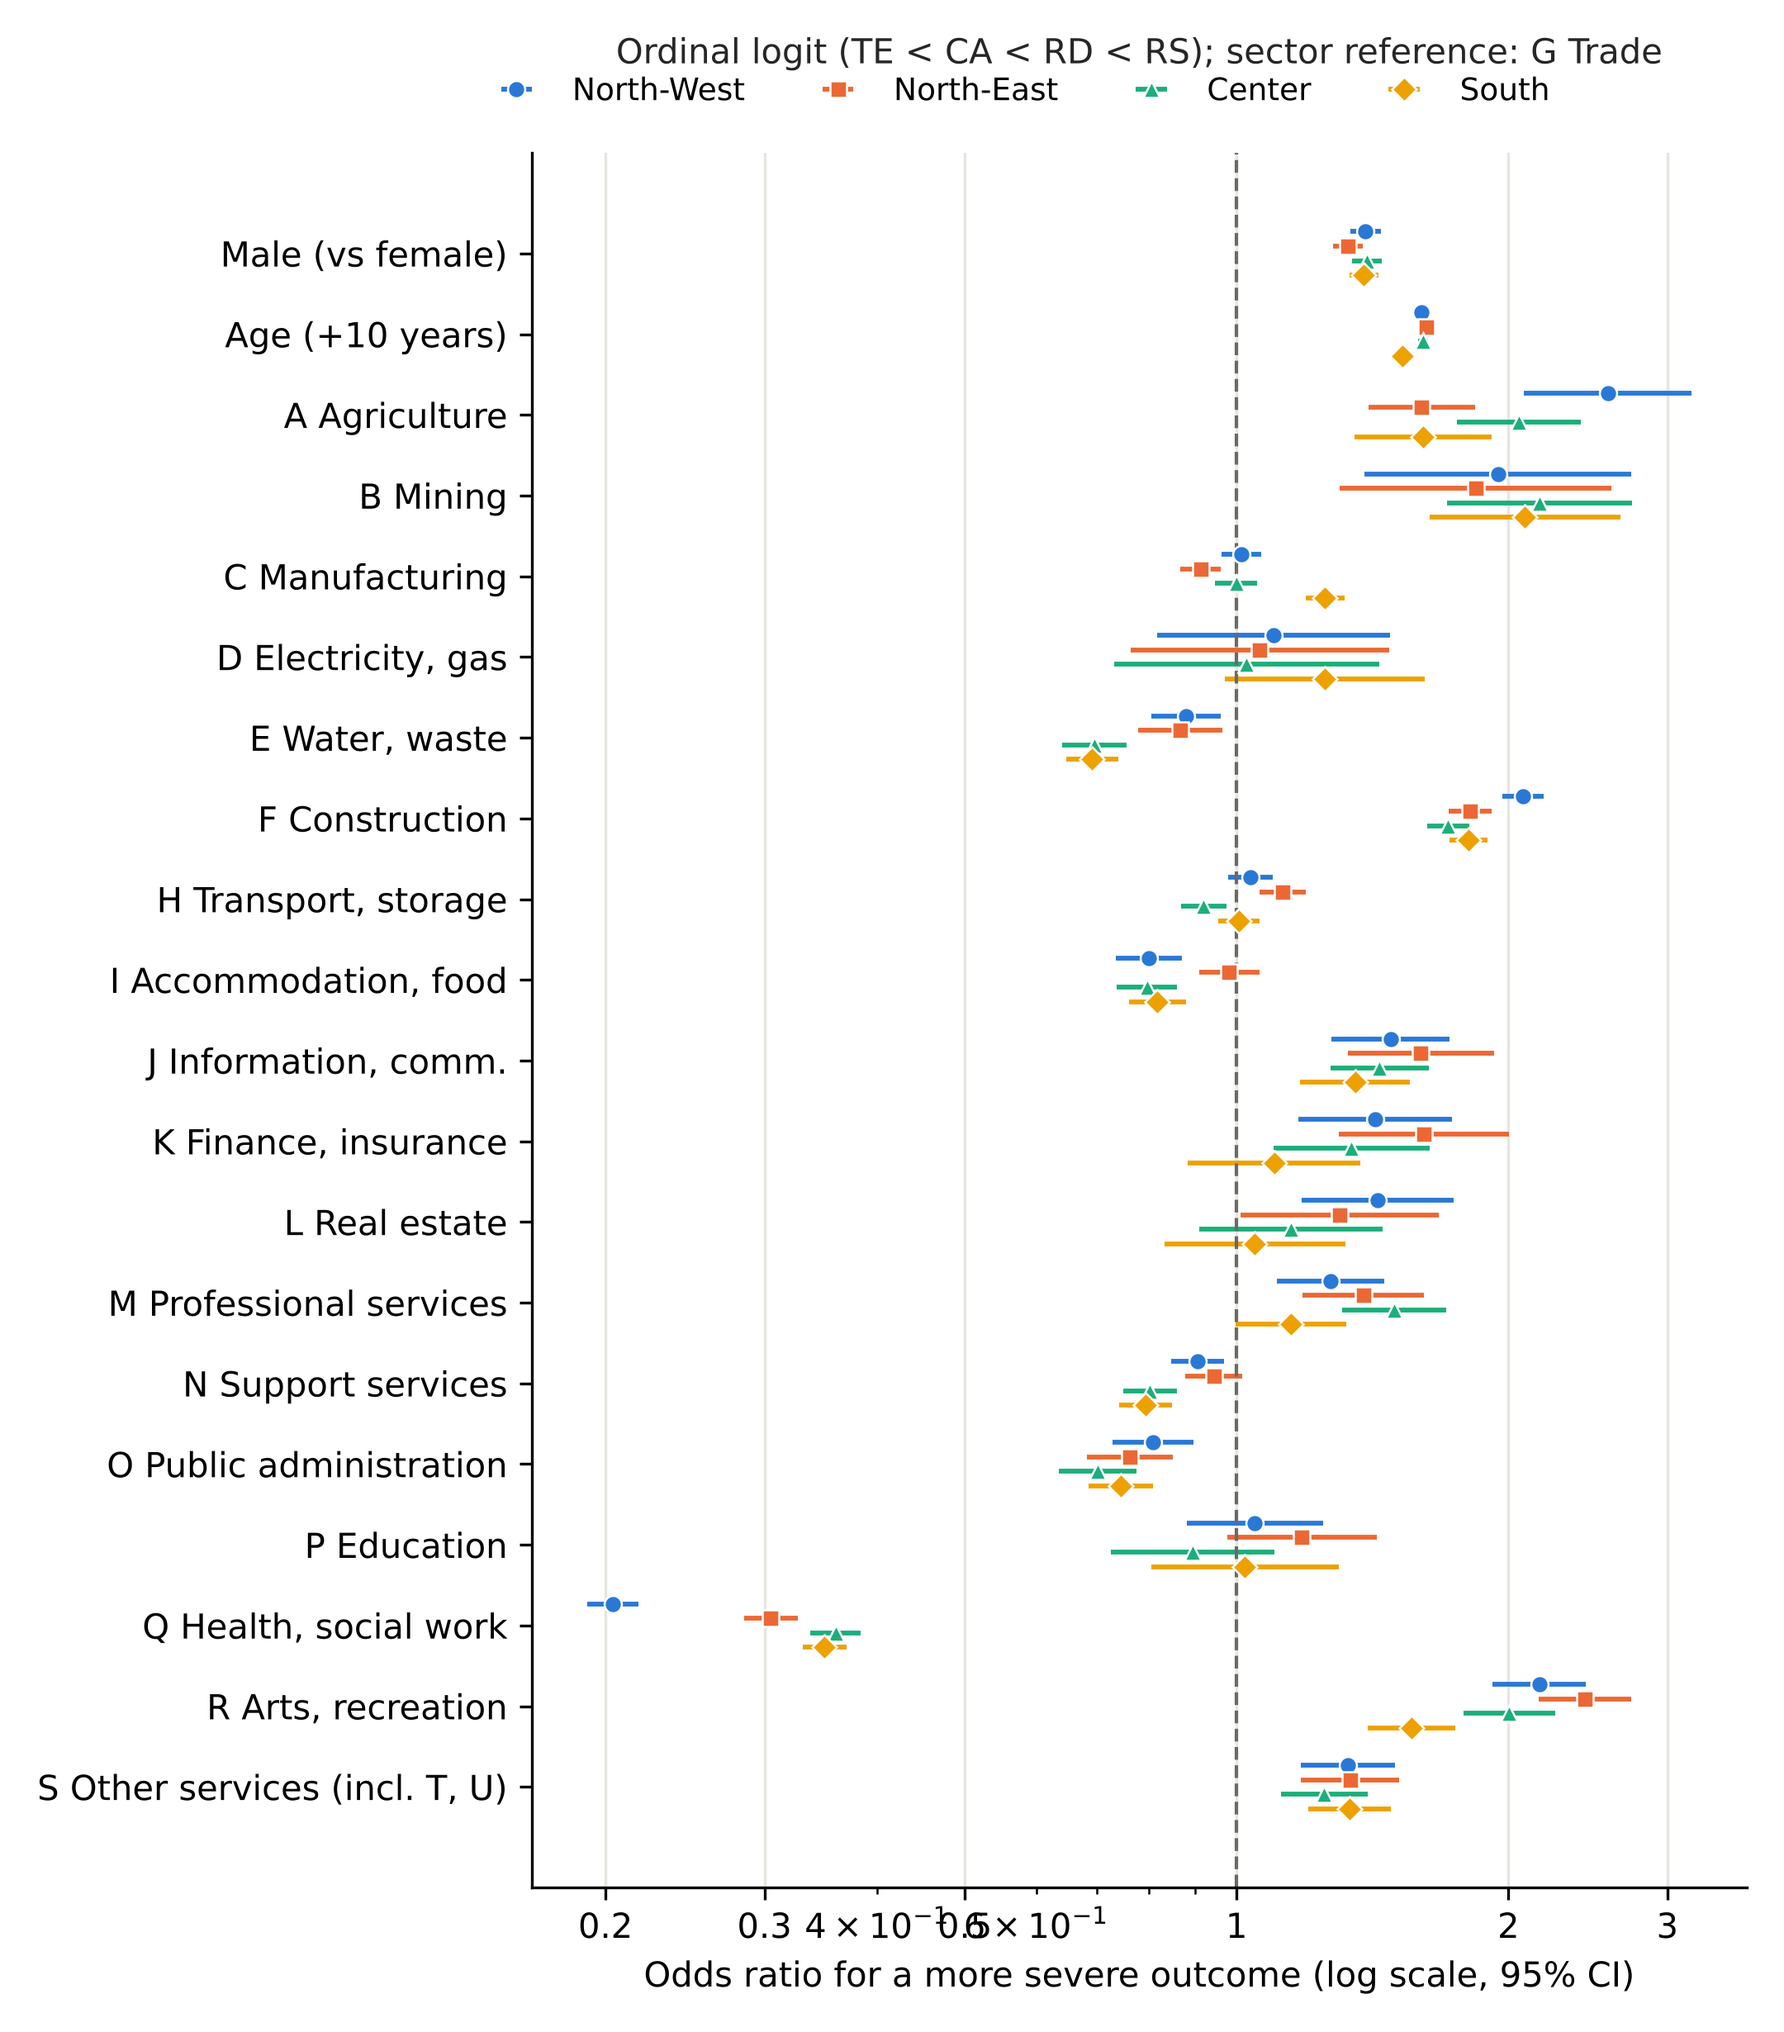
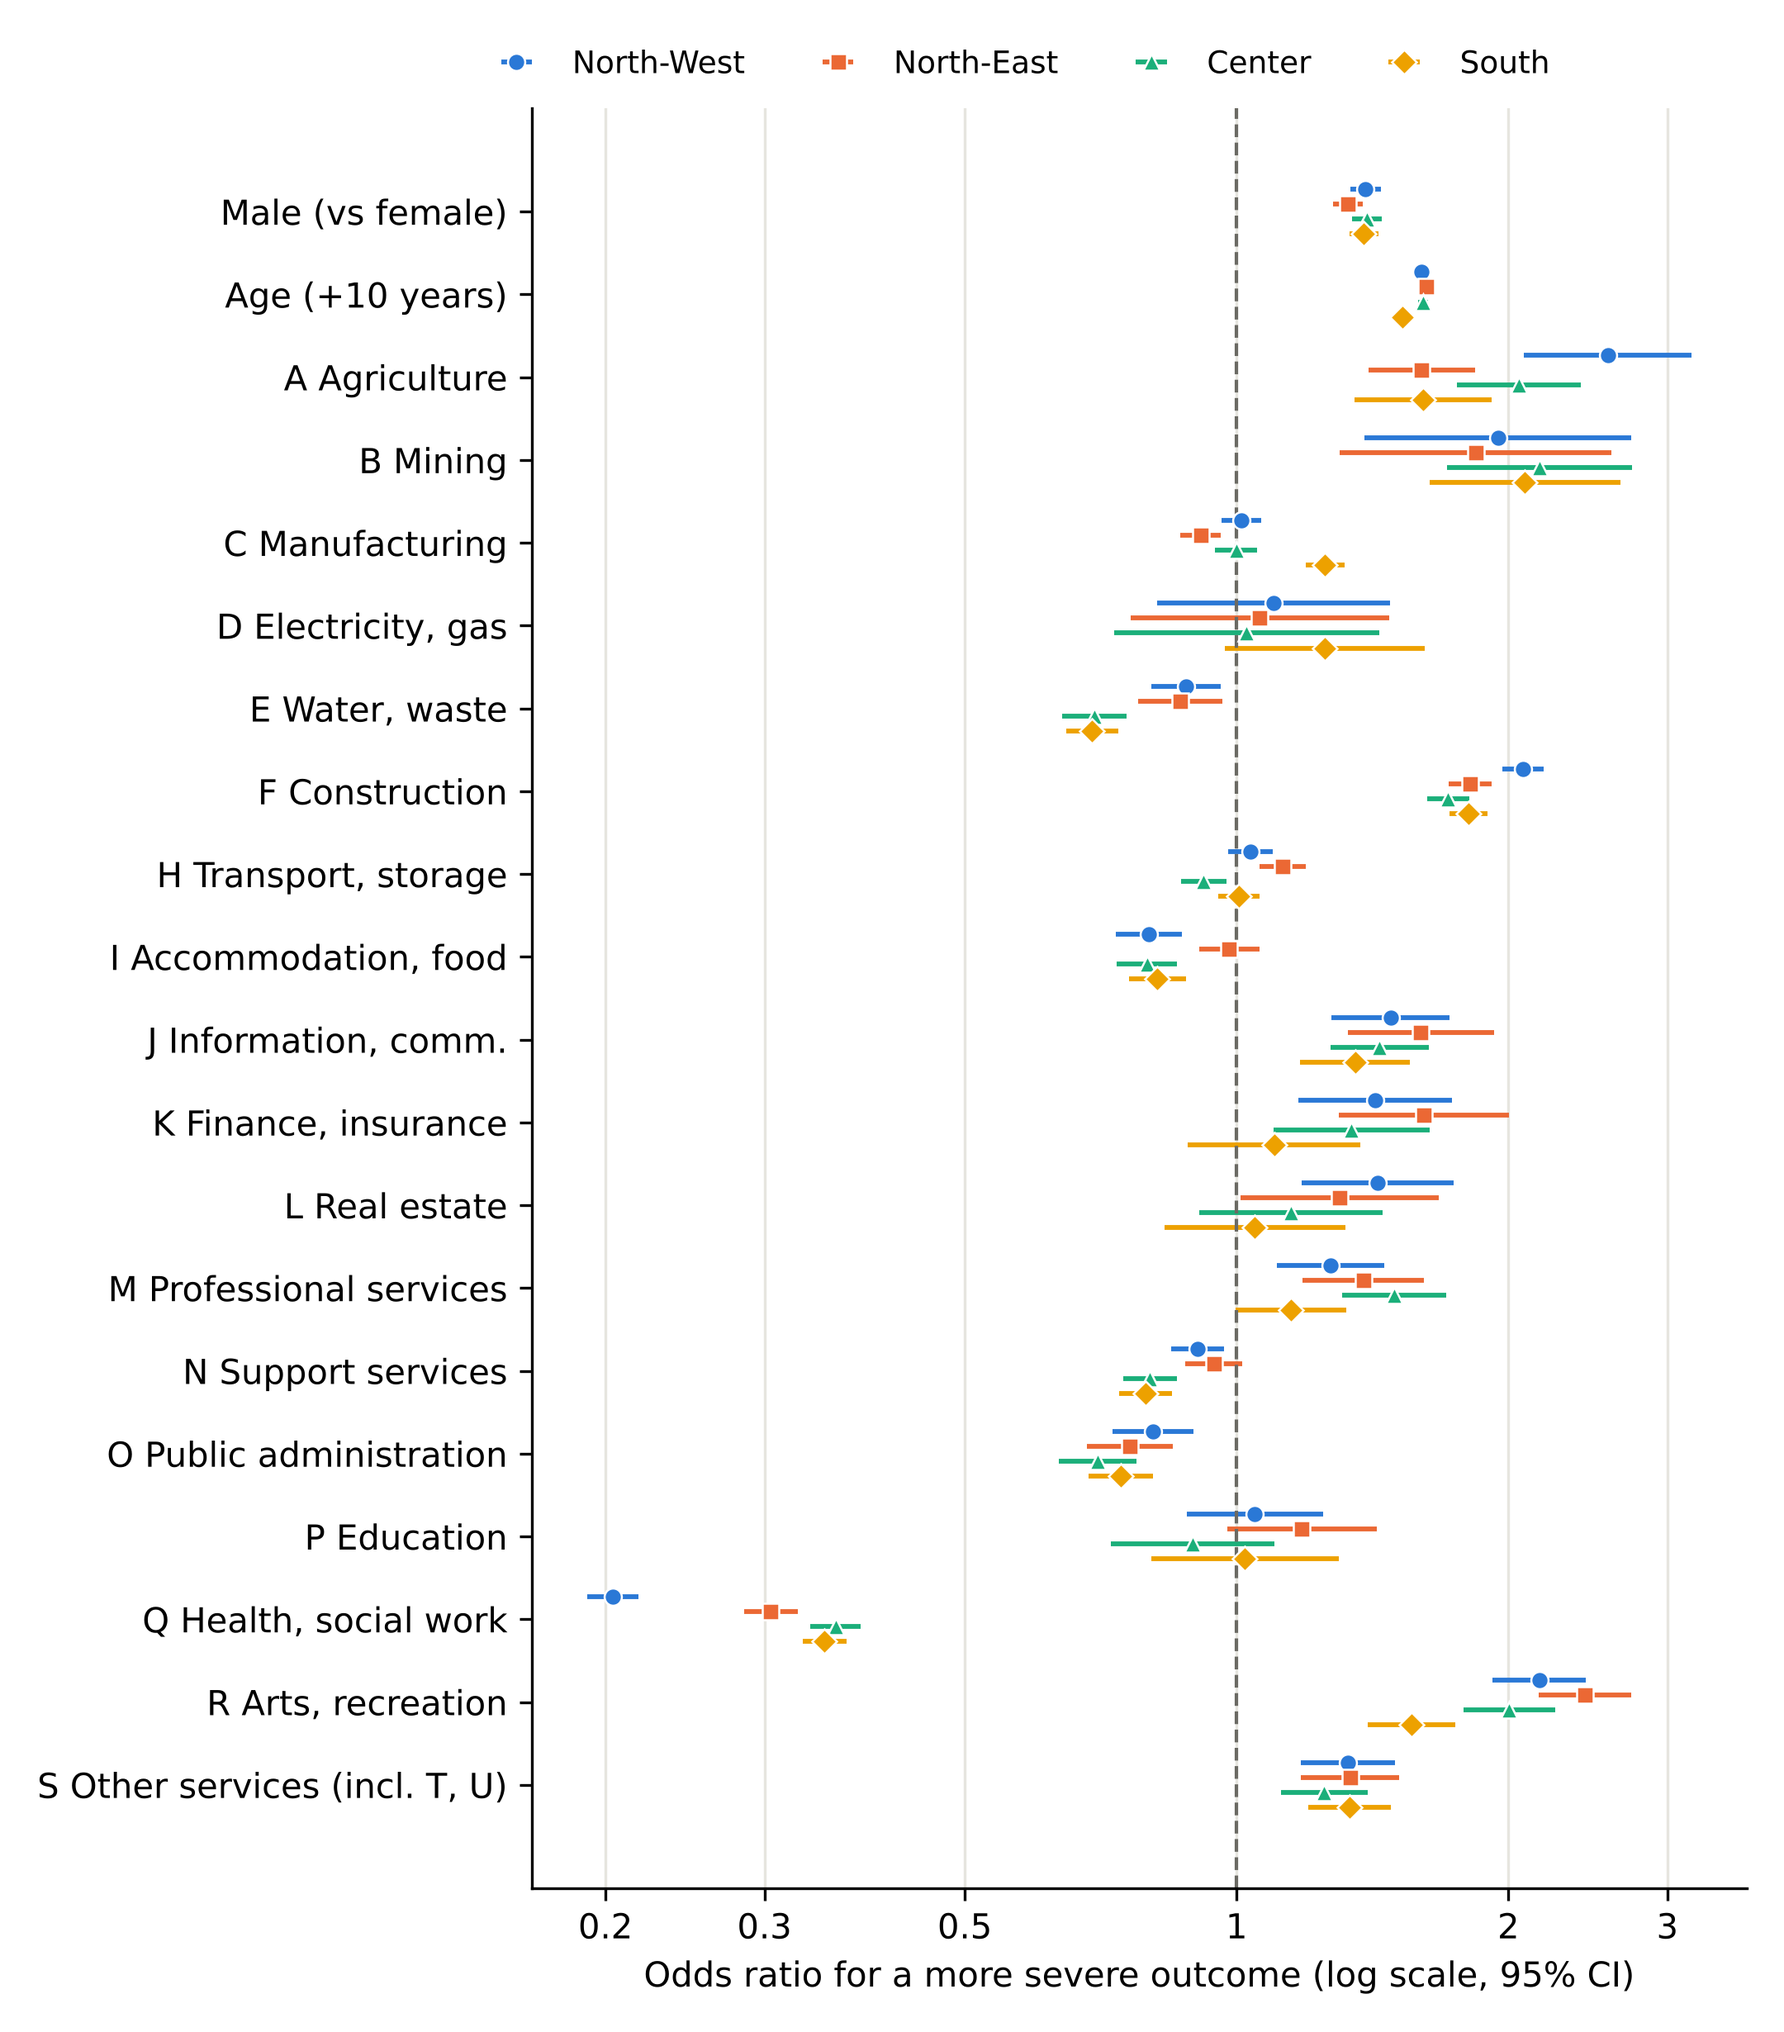
Version 1.1.0: Table 1 split by insurance management, Figure 5 axis

diff --git a/src/inail_severity/data.py b/src/inail_severity/data.py
@@ -13,18 +13,20 @@ OUTCOMES = ["TE", "CA", "RD", "RS"]
 
 # (key, label used in Table 1, function returning the rows to KEEP)
 FILTERS = [
-    ("sector_missing", "Economic sector = ND (missing)", lambda d: d.SettoreAttivitaEconomica != "ND"),
-    ("ateco_missing", "Economic sector = ND (missing)", lambda d: d.CodiceAteco != "ND"),
+    ("scope_management", "Agriculture or State insurance management (no economic sector)",
+     lambda d: ~d.Gestione.isin(["A", "S"])),
+    ("sector_missing", "Economic sector = ND, Industry and Services management", lambda d: d.SettoreAttivitaEconomica != "ND"),
+    ("ateco_missing", "Economic sector = ND, Industry and Services management", lambda d: d.CodiceAteco != "ND"),
     ("ggt_missing", "Large Tariff Group = ND", lambda d: d.GrandeGruppoTariffario != "ND"),
-    ("age_missing", "Age = -1 / under 15", lambda d: d.Eta != "-1"),
+    ("age_missing", "Invalid age (-1)", lambda d: d.Eta != "-1"),
     ("place_missing", "Place of occurrence = ND/NaN", lambda d: (d.LuogoAccadimento != "") & (d.LuogoAccadimento != "ND")),
     ("not_indemnified", "Non-indemnified claim (NE)", lambda d: d.Indennizzo != "NE"),
     ("commuting", "Commuting accident (in itinere)", lambda d: d.ModalitaAccadimento != "S"),
     ("pat_missing", "Employer insurance position (PAT) = -1", lambda d: d.PosizioneAssicurativaTerritoriale != "-1"),
-    ("age_under15", "Age = -1 / under 15", lambda d: d.Eta.astype(int) >= 15),
+    ("age_under15", "Age under 15", lambda d: d.Eta.astype(int) >= 15),
 ]
 
-REQUIRED = ["DataAccadimento", "Genere", "Eta", "CodiceAteco", "SettoreAttivitaEconomica",
+REQUIRED = ["DataAccadimento", "Genere", "Eta", "CodiceAteco", "SettoreAttivitaEconomica", "Gestione",
             "GrandeGruppoTariffario", "LuogoAccadimento", "Indennizzo", "ModalitaAccadimento",
             "PosizioneAssicurativaTerritoriale", "IdentificativoInfortunato"]
 
@@ -108,7 +110,7 @@ def prepare(cfg, regions):
         print(f"[prepare] {r}: {len(d):,} records retained", flush=True)
     log = pd.DataFrame(rows)
     log.to_csv(os.path.join(od, "selection_log.csv"), index=False)
-    # Table 1: records removed by reason (sector and ATECO missing merged; the two age filters merged)
+    # Table 1: records removed by reason, in the order in which the filters are applied
     t1 = log[log.step != "raw"].groupby(["label", "region"], sort=False).removed.sum().unstack("region")[regions]
     raw = log[log.step == "raw"].set_index("region").remaining[regions]
     fin = log.groupby("region").remaining.last()[regions]
@@ -126,13 +128,37 @@ def load_clean(cfg, region):
 
 
 def selection_stages(cfg, regions):
-    """Supplementary Table S5: characteristics of records removed at each selection stage."""
+    """Supplementary Table S5: characteristics of records removed at each selection stage, and of the
+    otherwise eligible records lost because the economic sector is missing (last row)."""
     rows = []
     for r in regions:
         _, log = load_region(cfg, r, profile=True)
         for e in log:
             rows.append(dict(region=r, **e))
         print(f"[selection] {r} done", flush=True)
+        rows.append(dict(region=r, **_in_scope_missing_sector(cfg, r)))
     t = pd.DataFrame(rows)
     t.to_csv(os.path.join(out_dir(cfg, "supplementary"), "S5_selection_stages.csv"), index=False)
     return t
+
+
+def _in_scope_missing_sector(cfg, region):
+    """Records of the Industry and Services management lost only because the economic sector is
+    missing: they would pass all the other filters. Compared with the analysed records."""
+    skip = default_skip(cfg)
+    df = read_raw(cfg, region)
+    keep = {k: f for k, _, f in FILTERS}
+    df = df[keep["scope_management"](df)]
+    cand = df[~keep["sector_missing"](df)]
+    for k, _, f in FILTERS:
+        if k in ("scope_management", "sector_missing", "ateco_missing") or k in skip:
+            continue
+        cand = cand[f(cand)]
+    final, _ = load_region(cfg, region)
+    final = final.assign(Eta=final.Eta.astype(str), DataAccadimento=final.DataAccadimento)
+    entry = dict(step="sector_missing_in_scope",
+                 label="Economic sector = ND, Industry and Services, otherwise eligible (not a separate filter)",
+                 removed=len(cand), remaining=len(final))
+    entry.update({f"removed_{k}": v for k, v in _profile(cand).items()})
+    entry.update({f"retained_{k}": v for k, v in _profile(final).items()})
+    return entry

diff --git a/src/inail_severity/reporting.py b/src/inail_severity/reporting.py
@@ -129,7 +129,7 @@ def build(cfg, regions):
         s5 = pd.read_csv(p)
         keep = ["region", "step", "label", "removed", "remaining"] + [c for c in s5.columns if c.startswith(("removed_", "retained_")) and not c.endswith("_n")]
         sheets["S5 Selection stages"] = s5[keep].round(2)
-        notes.append("S5: characteristics of the records removed at each selection stage (applied sequentially) and of those retained after it: share of men, mean age, outcome distribution (including non-indemnified claims, NE) and year of the accident.")
+        notes.append("S5: characteristics of the records removed at each selection stage (applied sequentially) and of those retained after it: share of men, mean age, outcome distribution (including non-indemnified claims, NE) and year of the accident. The last row of each macro-region describes the records of the Industry and Services management that have no economic sector but would have met all the other selection criteria, compared with the analysed records.")
     p = os.path.join(sdir, "S6_ggt_sensitivity.csv")
     if os.path.exists(p):
         s6 = pd.read_csv(p); pr = pd.read_csv(os.path.join(sdir, "S6_ggt_profiles.csv"))

diff --git a/src/inail_severity/figures.py b/src/inail_severity/figures.py
@@ -58,13 +58,13 @@ def fig_forest(cfg, regions):
                     markeredgecolor="white", markeredgewidth=0.6)
     ax.axvline(1, color=MUTE, lw=1, ls="--"); ax.set_xscale("log")
     ax.set_xticks([0.2, 0.3, 0.5, 1, 2, 3]); ax.set_xticklabels(["0.2", "0.3", "0.5", "1", "2", "3"])
+    ax.xaxis.set_minor_locator(matplotlib.ticker.NullLocator())  # no minor labels in scientific notation
     ax.set_yticks(np.arange(len(order))[::-1], [LAB[v] for v in order])
     ax.set_xlabel("Odds ratio for a more severe outcome (log scale, 95% CI)")
     ax.grid(axis="x", color=GRID, lw=0.8); ax.set_axisbelow(True)
     for s in ["top", "right"]:
         ax.spines[s].set_visible(False)
-    ax.legend(loc="upper center", bbox_to_anchor=(0.4, 1.06), ncol=4, frameon=False, fontsize=9)
-    ax.set_title("Ordinal logit (TE < CA < RD < RS); sector reference: G Trade", fontsize=10, color=INK, pad=26)
+    ax.legend(loc="lower center", bbox_to_anchor=(0.4, 1.0), ncol=4, frameon=False, fontsize=9)
     fig.tight_layout(); fig.savefig(os.path.join(out_dir(cfg, "figures"), "Figure5_forest_ordinal.png"), dpi=300); plt.close(fig)
 
 

diff --git a/tests/make_synthetic.py b/tests/make_synthetic.py
@@ -27,6 +27,8 @@ def make(n, seed):
                            PosizioneAssicurativaTerritoriale=rng.integers(1, 10**6, n).astype(str),
                            IdentificativoInfortunato=worker.astype(str)))
     nd = rng.random(n) < 0.25; df.loc[nd, ["SettoreAttivitaEconomica", "CodiceAteco"]] = "ND"
+    gest = np.full(n, "I", dtype=object); other = nd & (rng.random(n) < 0.6)    # Agriculture / State: no sector
+    gest[other] = rng.choice(["A", "S"], int(other.sum())); df["Gestione"] = gest
     df.loc[rng.random(n) < 0.04, "GrandeGruppoTariffario"] = "ND"
     df.loc[rng.random(n) < 0.0005, "Eta"] = "-1"
     return df

diff --git a/README.md b/README.md
@@ -115,3 +115,13 @@ last decimal with other library versions or numbers of threads.
 ## Licence
 
 Code: MIT (see `LICENSE`). Data: INAIL open data, CC BY 4.0.
+
+## Version history
+
+- **1.1.0** (November 2026). Table 1 separates the claims of the Agriculture and State insurance
+  managements (excluded by design, no economic sector) from the claims of the Industry and Services
+  management with a missing economic sector, and the removal of invalid ages from that of workers
+  under 15; Supplementary Table S5 adds the profile of the otherwise eligible records lost because
+  the economic sector is missing; Figure 5 no longer shows minor axis labels in scientific notation.
+  The analysed records and all estimates are unchanged.
+- **1.0.0** (November 2026). Version used for the first revision of the article.

diff --git a/data/README.md b/data/README.md
@@ -32,6 +32,6 @@ Create the subfolder `data/raw/` and place the four files there (unzip them firs
 were downloaded as an archive), or set `data_dir` in `config.yaml` to the folder that
 contains them.
 
-Columns used: DataAccadimento, Genere, Eta, CodiceAteco, SettoreAttivitaEconomica,
+Columns used: DataAccadimento, Genere, Eta, CodiceAteco, SettoreAttivitaEconomica, Gestione,
 GrandeGruppoTariffario, LuogoAccadimento, Indennizzo, ModalitaAccadimento,
 PosizioneAssicurativaTerritoriale, IdentificativoInfortunato.
